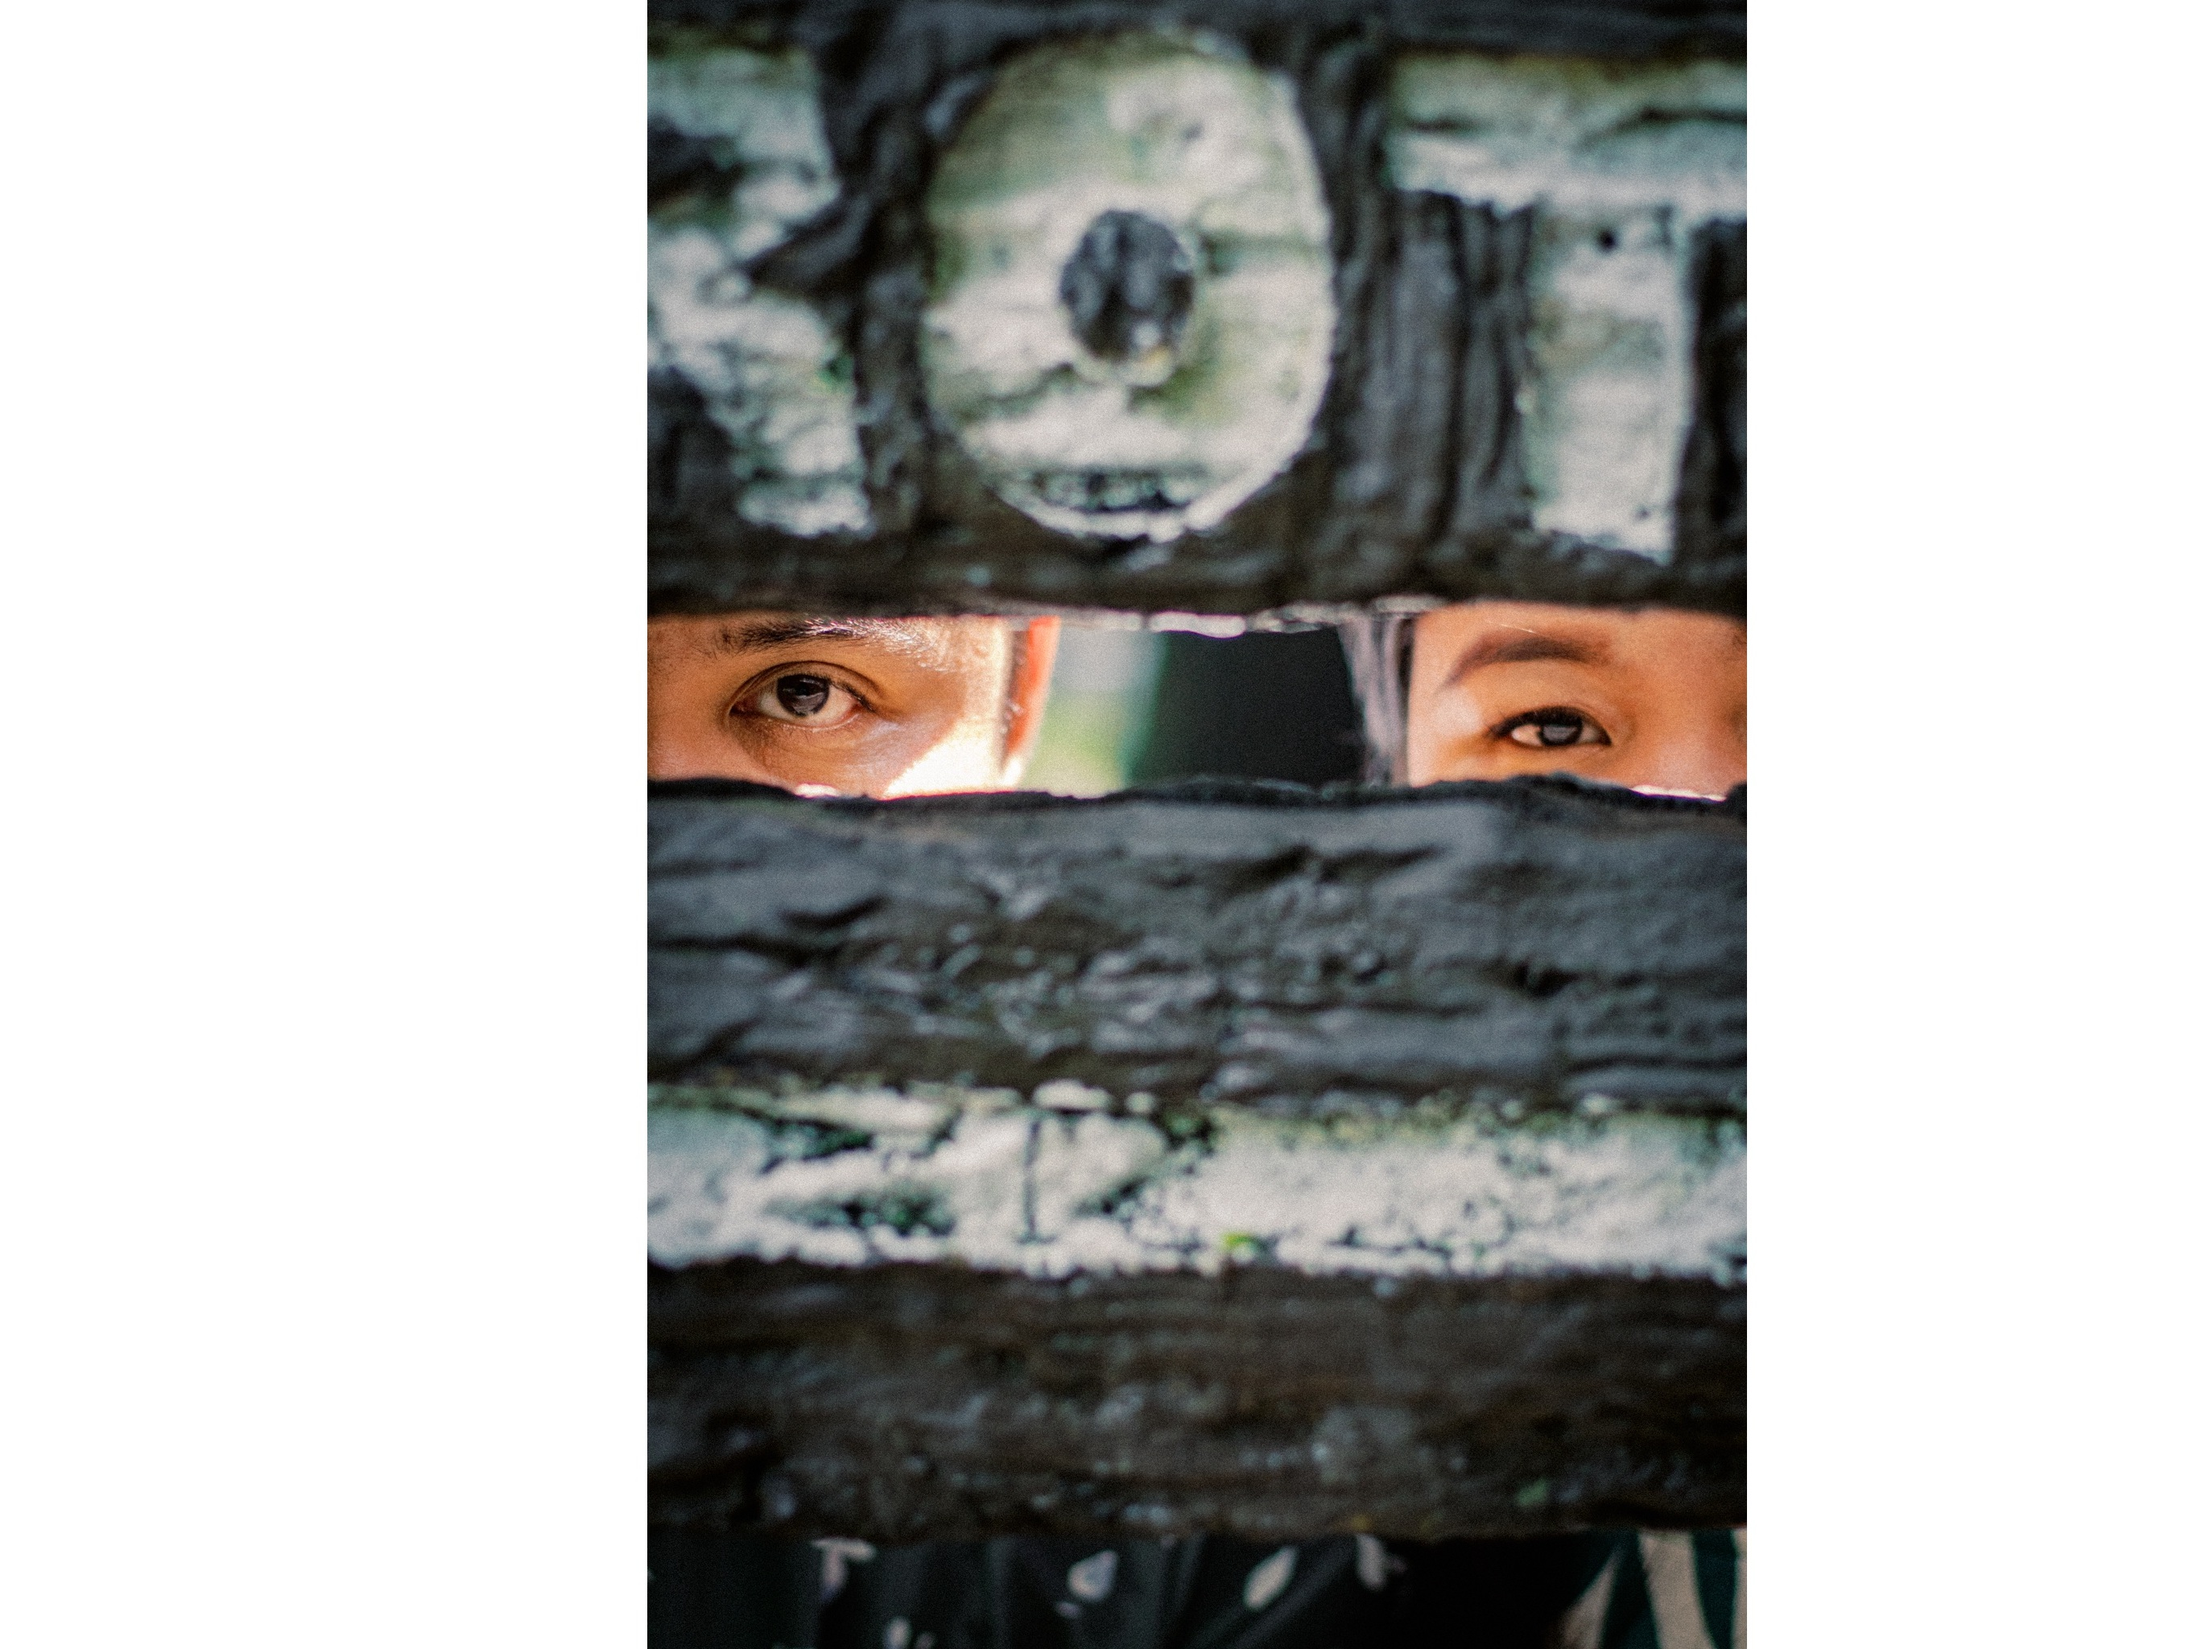
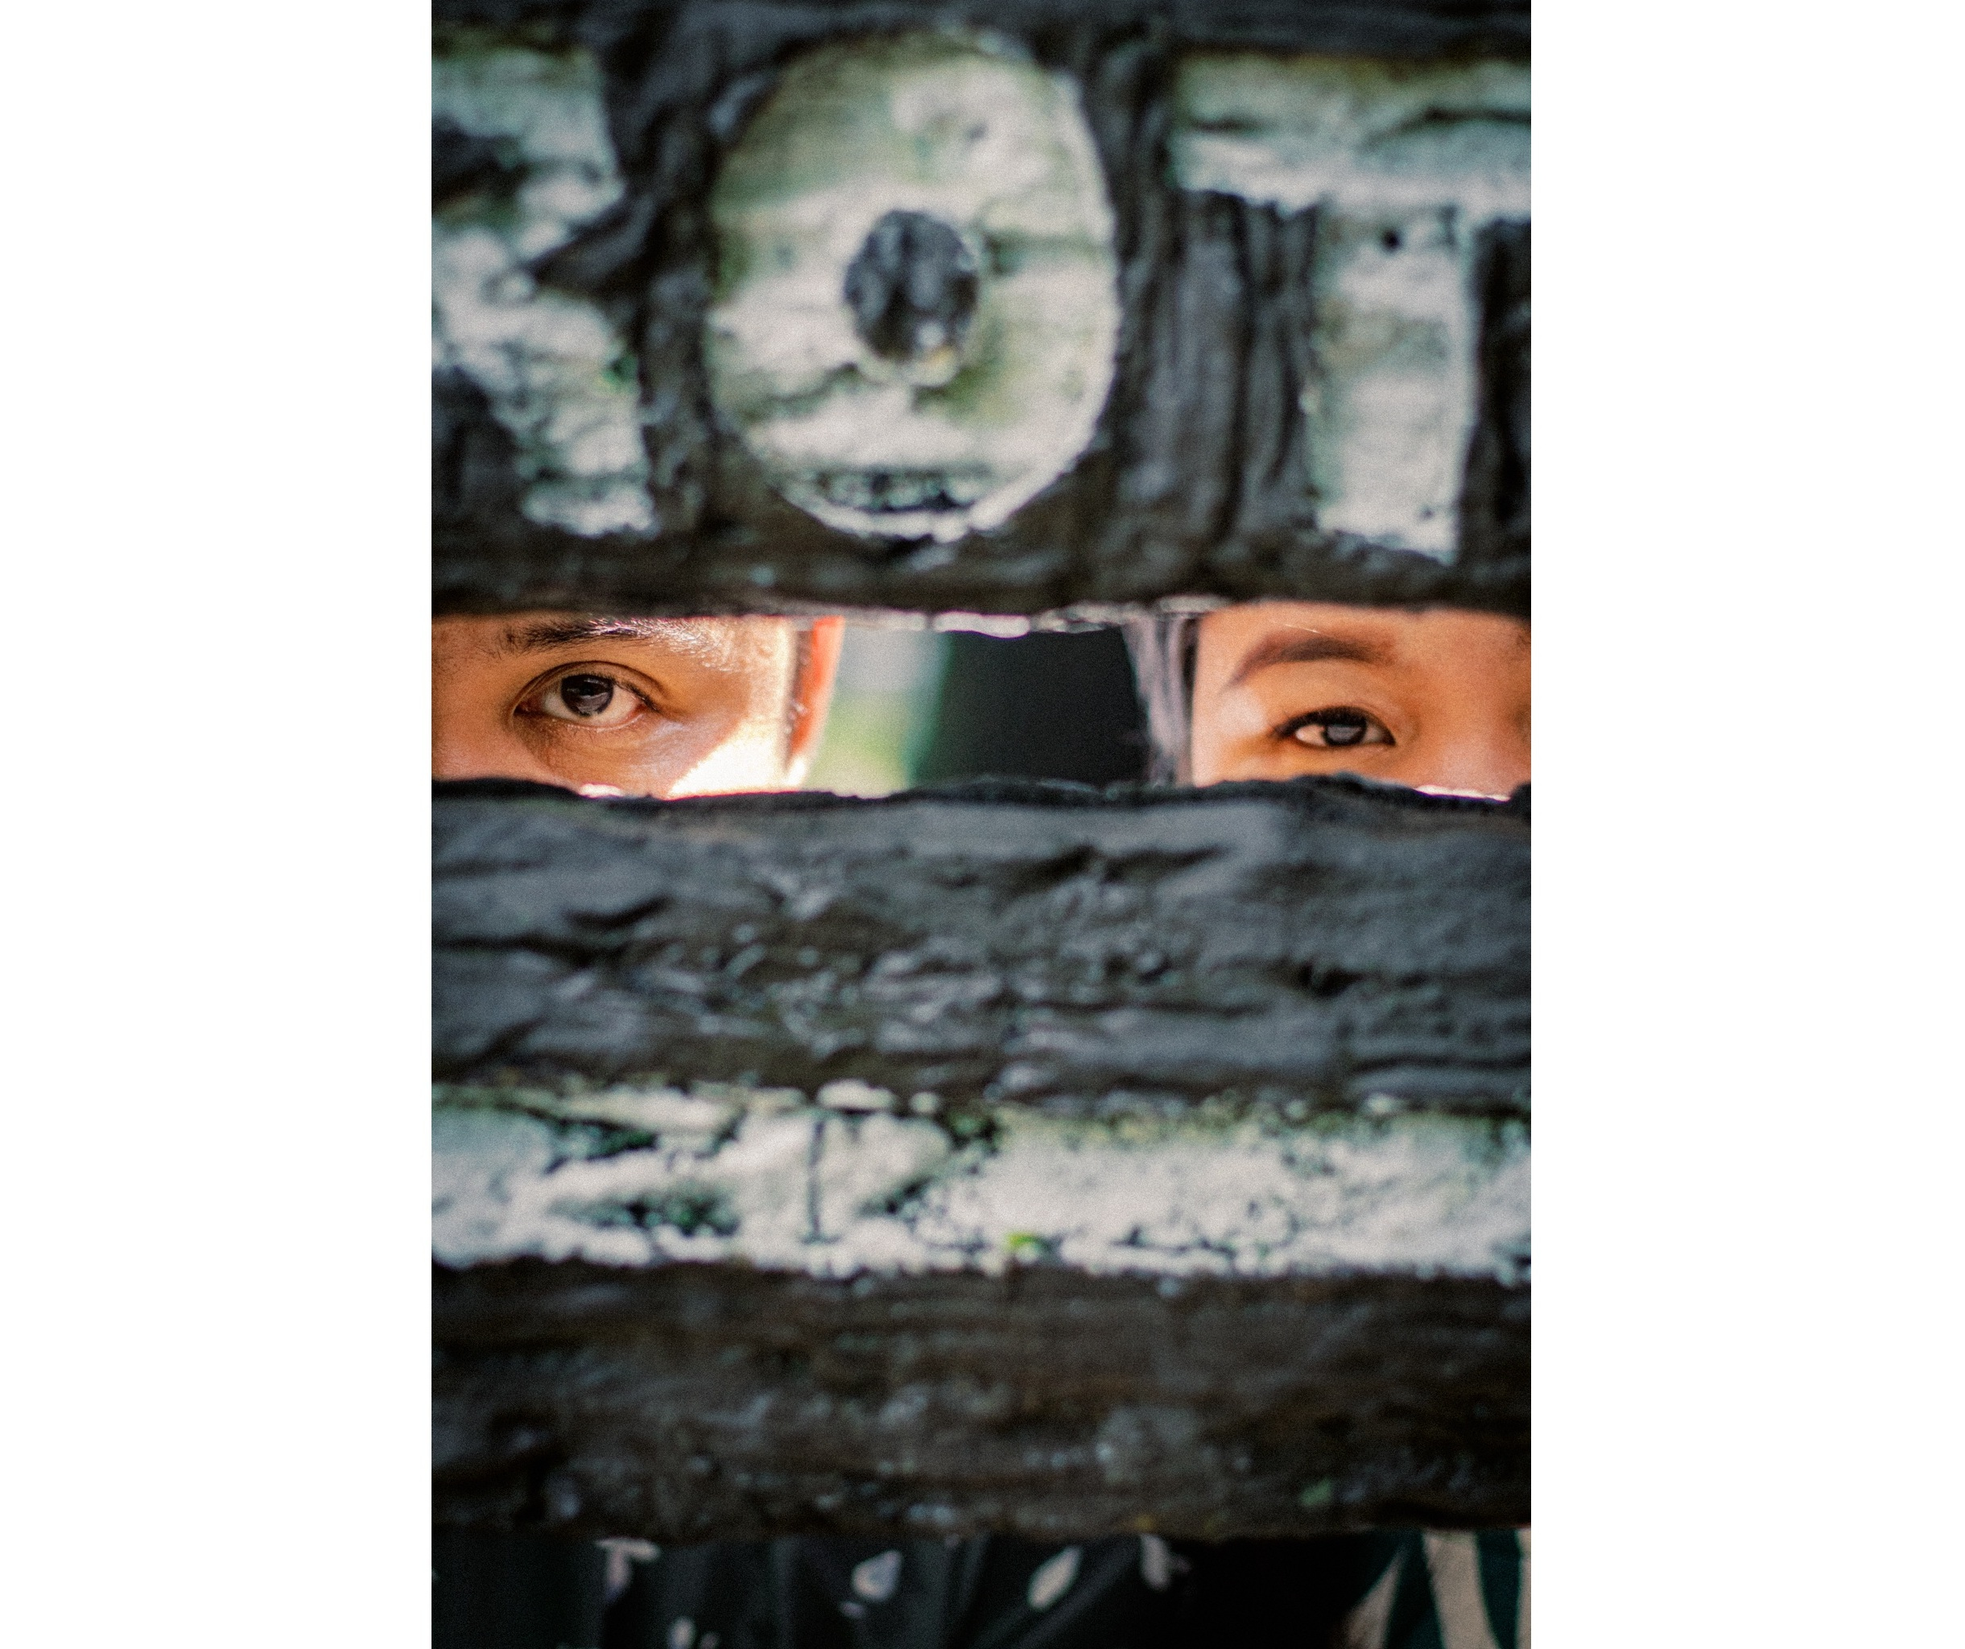
fix some hero

diff --git a/style.css b/style.css
@@ -655,7 +655,7 @@ textarea:focus-visible {
 .hero-bg img {
   width: 100%; height: 100%;
   object-fit: cover;
-  animation: hero-zoom 22s ease-in-out infinite alternate;
+ 
 }
 @keyframes hero-zoom {
   from { transform: scale(1); }
@@ -1590,4 +1590,21 @@ textarea:focus-visible {
   .quote-content cite{
     margin-top:80px;
   }
+  .hero{
+      background: linear-gradient(to bottom, rgb(0 0 0 / 91%) 50%, rgba(0, 0, 0, 0.2) 50%, rgba(0, 0, 0, 0.7) 100%);
+  }
+  .hero-bg img{
+    transform: scale(2);
+    object-fit:contain;
+  }
+  .hero-content{
+    margin-top:-80px;
+  }
+  .hero-date{
+    margin-top: 150px;
+  }
+  .hero-countdown{
+        margin-top: var(--space-xs);
+  }
 }
+

diff --git a/index.html b/index.html
@@ -155,11 +155,13 @@
     ========================================================= -->
     <section id="home" class="hero" aria-label="Welcome">
       <div class="hero-bg" id="hero-bg">
-        <picture>
+        <picture >
+          
            <!-- Mobile image -->
-          <source media="(max-width: 768px)" srcset="assets/gallery/hero-mobile.JPG">
+          <source media="(max-width: 768px)" srcset="assets/gallery/hero-mobile2.JPG">
           <!-- Desktop image -->
           <img src="assets/gallery/hero.JPG" loading="eager">
+          
         </picture>
         
         <div class="hero-overlay"></div>
